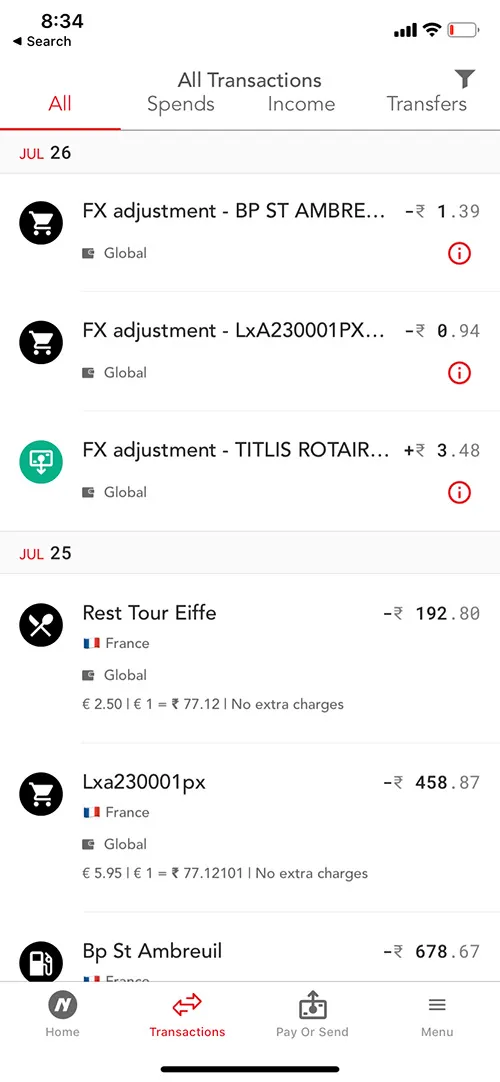
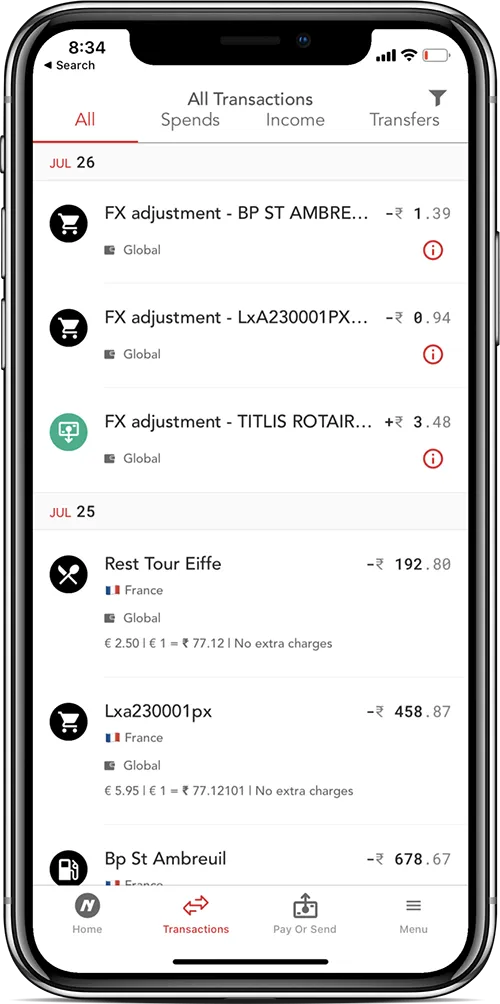
Update image

diff --git a/_posts/2019-05-25-niyo-global-forex-card-review.md b/_posts/2019-05-25-niyo-global-forex-card-review.md
@@ -128,7 +128,7 @@ You should be able to login to NiYO Global app post KYC approval and card activa
 
 I used this card extensively in Europe and England and I didn't face any issue. Loading money was hassle free and I just used to IMPS the amount to the card account and it used to get credit instantly. The card was accepted by all merchants across Europe and England without any glitches. As soon as the transaction was done, it showed up in the NiYO Global app with an amount in both foreign currency as well as approximate INR. The transactions used to get settled in 2-3 days and hence the exchange rate of that time was applicable. Hence, due to fluctuation in currency exchange rates, there used to be some debit or credit of amount.
 
-{% include image.html image="niyo-global-app-transactions-history.jpg" alt="NiYO Global App Transaction History" class="img-center mb-3" %}
+{% include image.html image="niyo-global-app-transactions-history.png" alt="NiYO Global App Transaction History" class="img-center mb-3" %}
 
 I also used it for withdrawing money in ATMs and it worked seamlessly. There were no extra charges for ATM cash withdrawals and I was able to get Visa exchange rates for this too.
 
